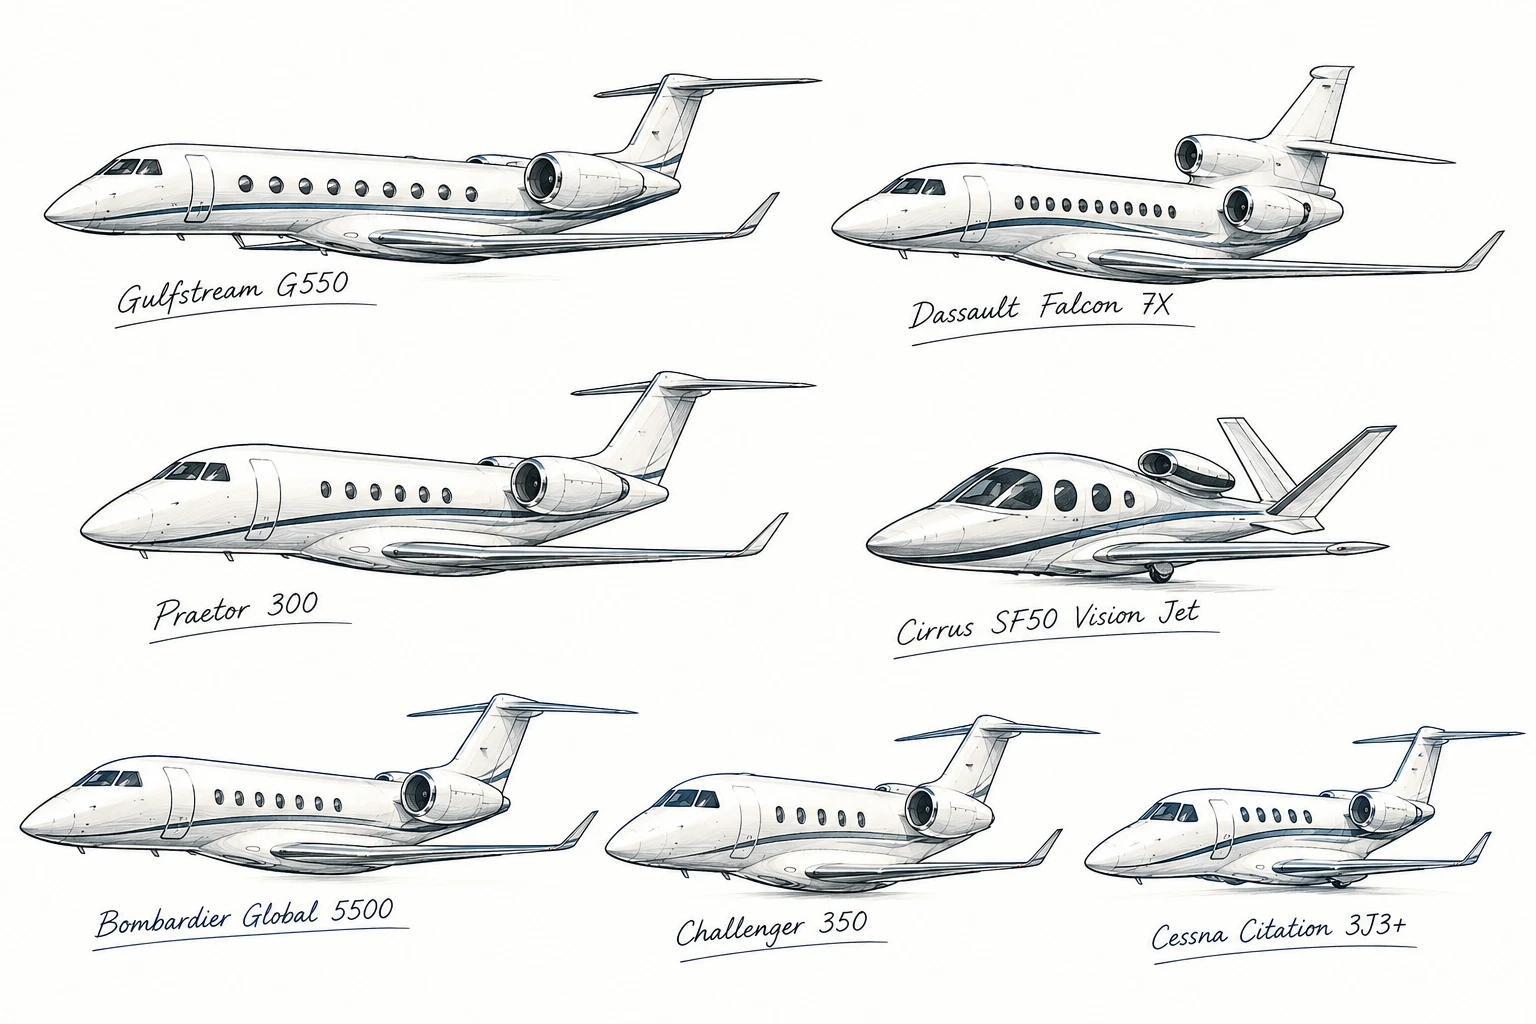
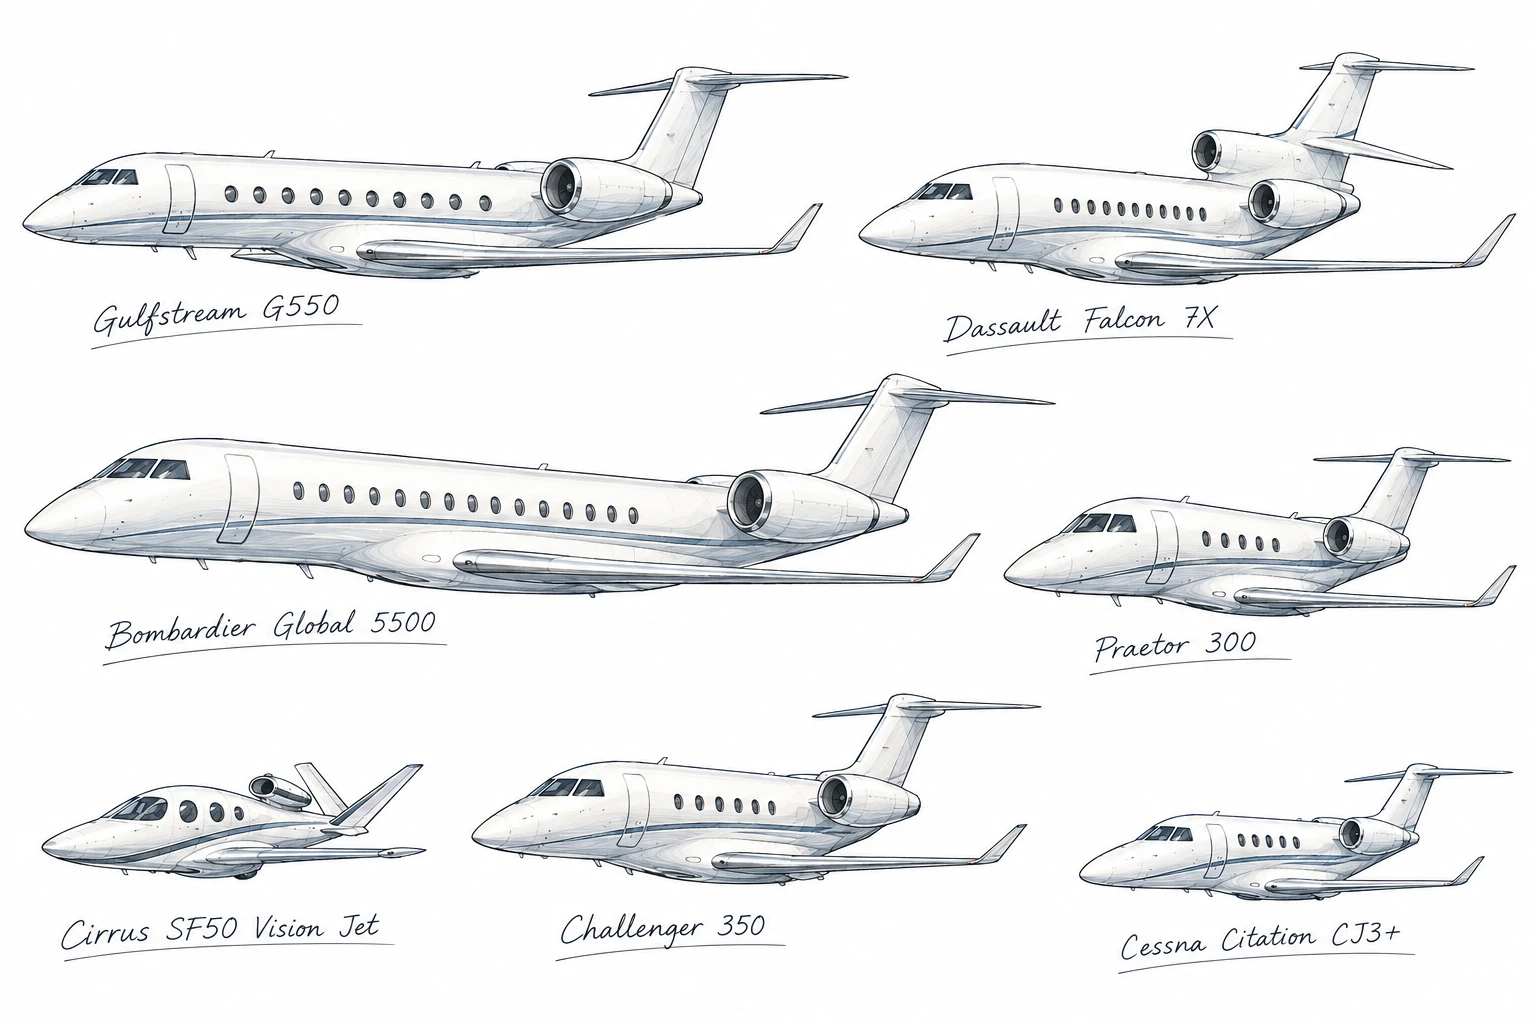
Swap in the updated jet fleet illustration on the Aviation page
Replaces the graphic with the refreshed version and corrects the
Cessna Citation model name in the alt text (CJ3+).

Claude-Session: https://claude.ai/code/session_01RE8ofV2TH7jdpoL3NiBGys

diff --git a/src/app/aviation/page.tsx b/src/app/aviation/page.tsx
@@ -290,7 +290,7 @@ export default async function AviationPage() {
           <div className="gm-container">
             {/* eslint-disable-next-line @next/next/no-img-element -- static page asset, not admin-managed content */}
             <img
-              alt="Illustrated lineup of private jets we outfit crews for, including the Gulfstream G550, Dassault Falcon 7X, Praetor 300, Cirrus SF50 Vision Jet, Bombardier Global 5500, Challenger 350 and Cessna Citation 3J3+"
+              alt="Illustrated lineup of private jets we outfit crews for, including the Gulfstream G550, Dassault Falcon 7X, Bombardier Global 5500, Praetor 300, Cirrus SF50 Vision Jet, Challenger 350 and Cessna Citation CJ3+"
               src="/aviation-jet-fleet.webp"
             />
             <p>From the Gulfstream G550 to the Cessna Citation — we know your fleet.</p>
